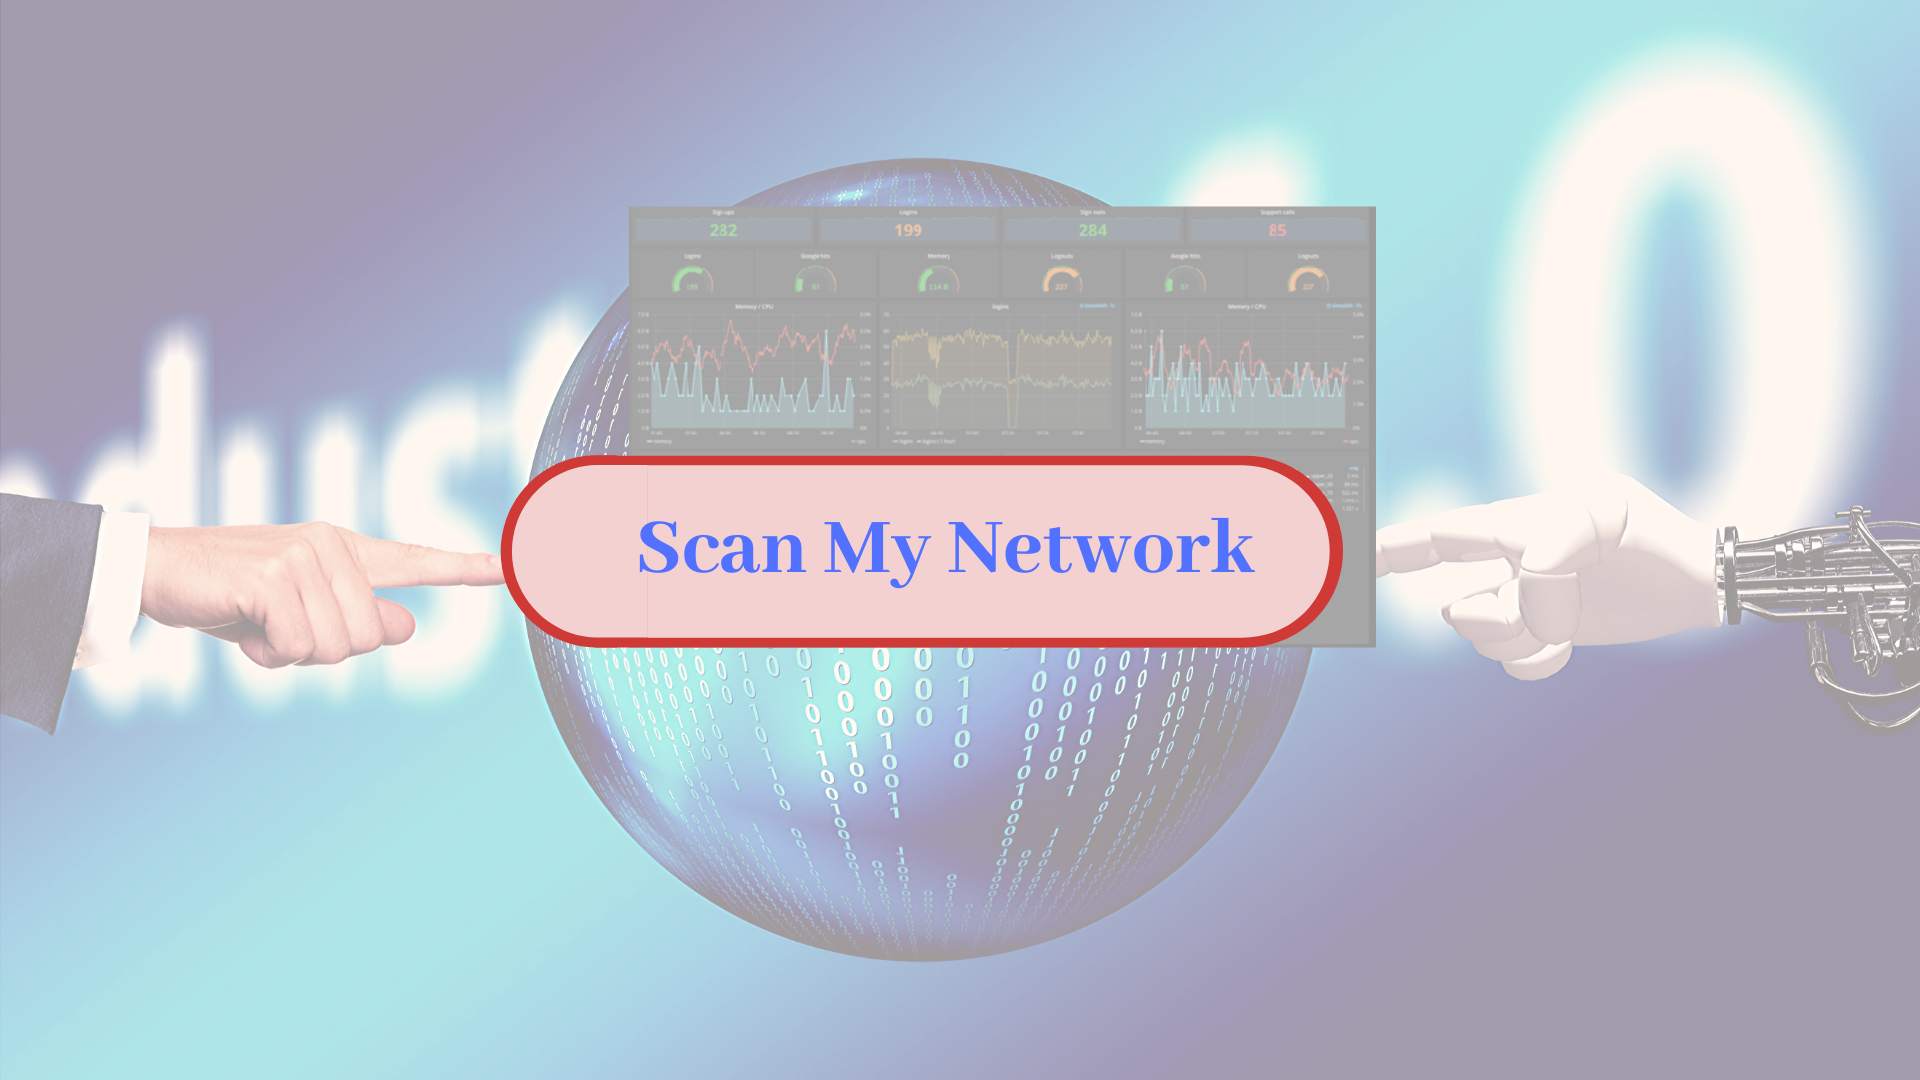
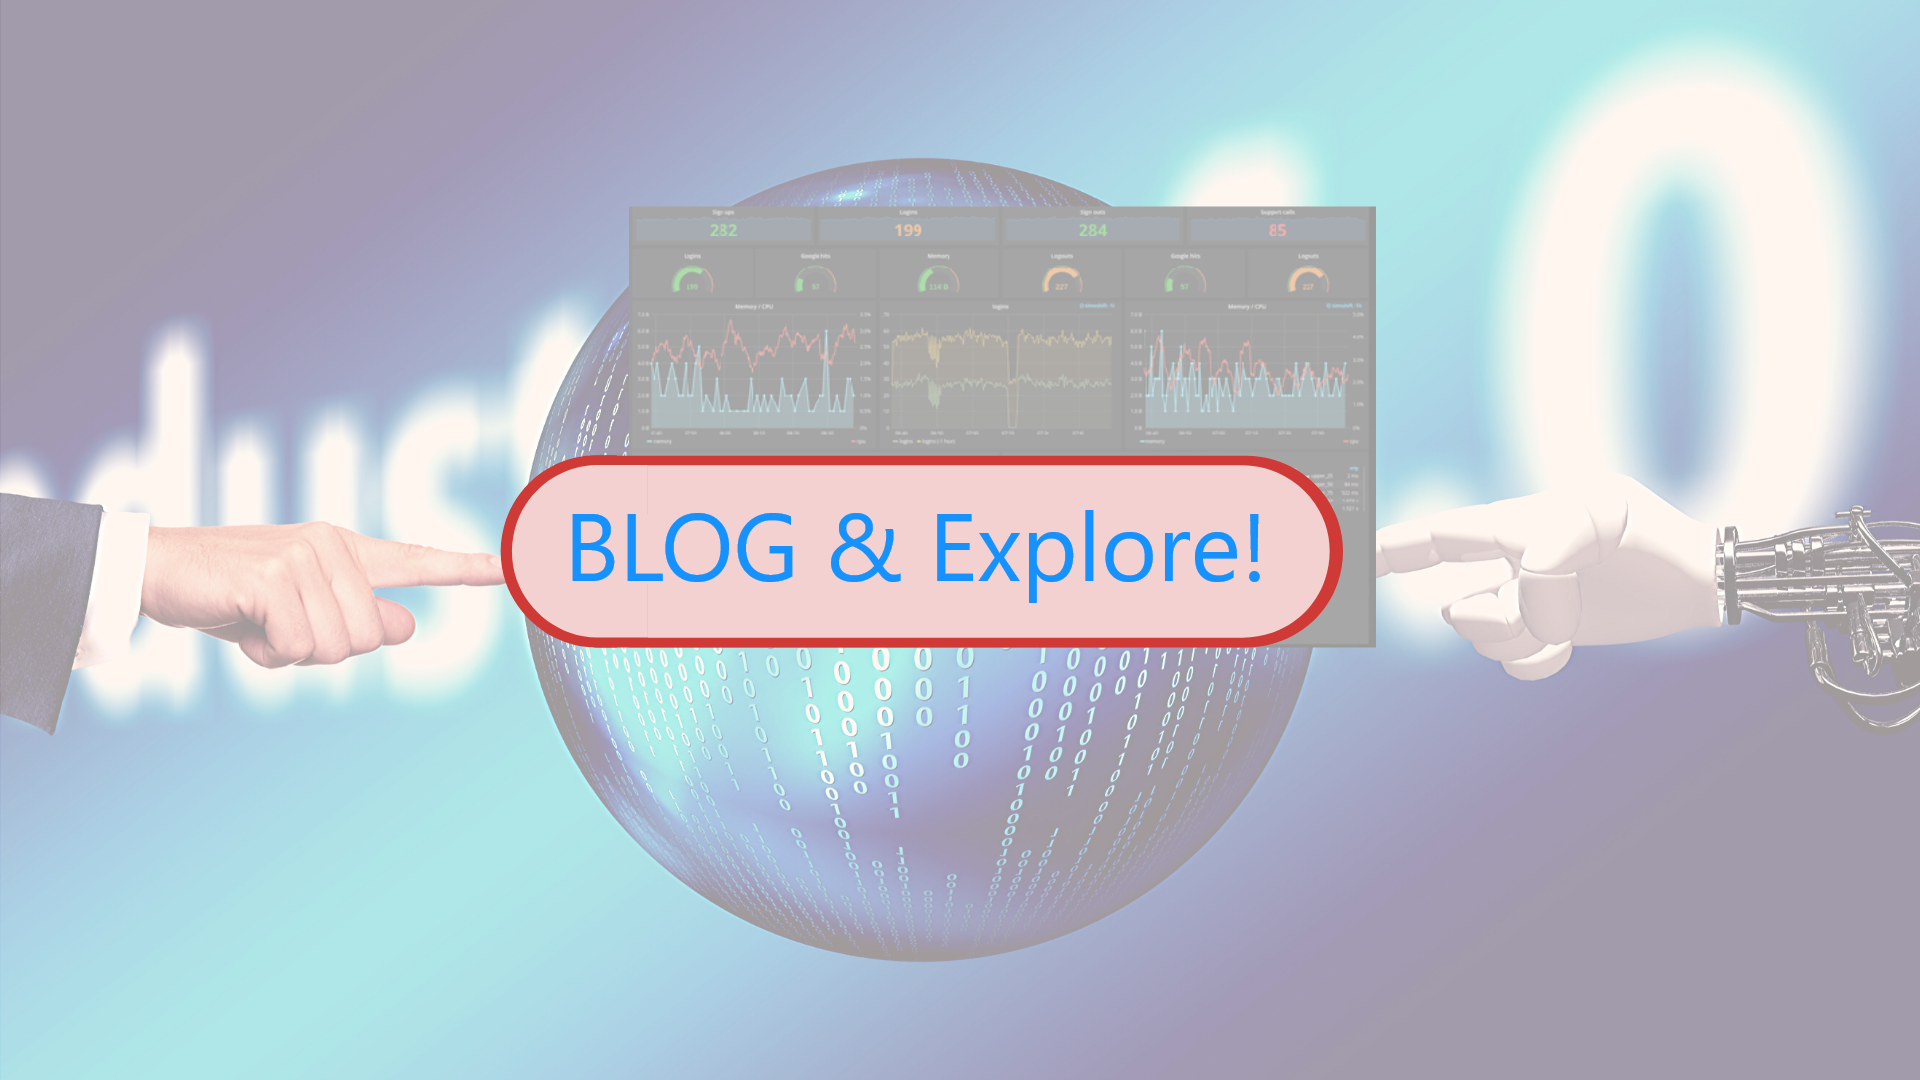
Changed the blog image on the php and fixed to go to blog

Changed region(s): [[0.2812, 0.4583, 0.6562, 0.55]]

diff --git a/Code/databaseConn/Apache24/htdocs/startOverPhp/index.php b/Code/databaseConn/Apache24/htdocs/startOverPhp/index.php
@@ -17,7 +17,7 @@
 
 	<h2 id= "meeting">Find out what is going on around you Tech Wise!</h2>
  	<div id="social">
-      <a href="vcheck.html"><img id="social" src="media/scan1.png" alt = "Nimby Cloud Logo"/></a>
+      <a href="pages/blogList.php"><img id="social" src="media/scan1.png" alt = "Nimby Cloud Logo"/></a>
 	</div>
 	
   <div class="grid-container">
